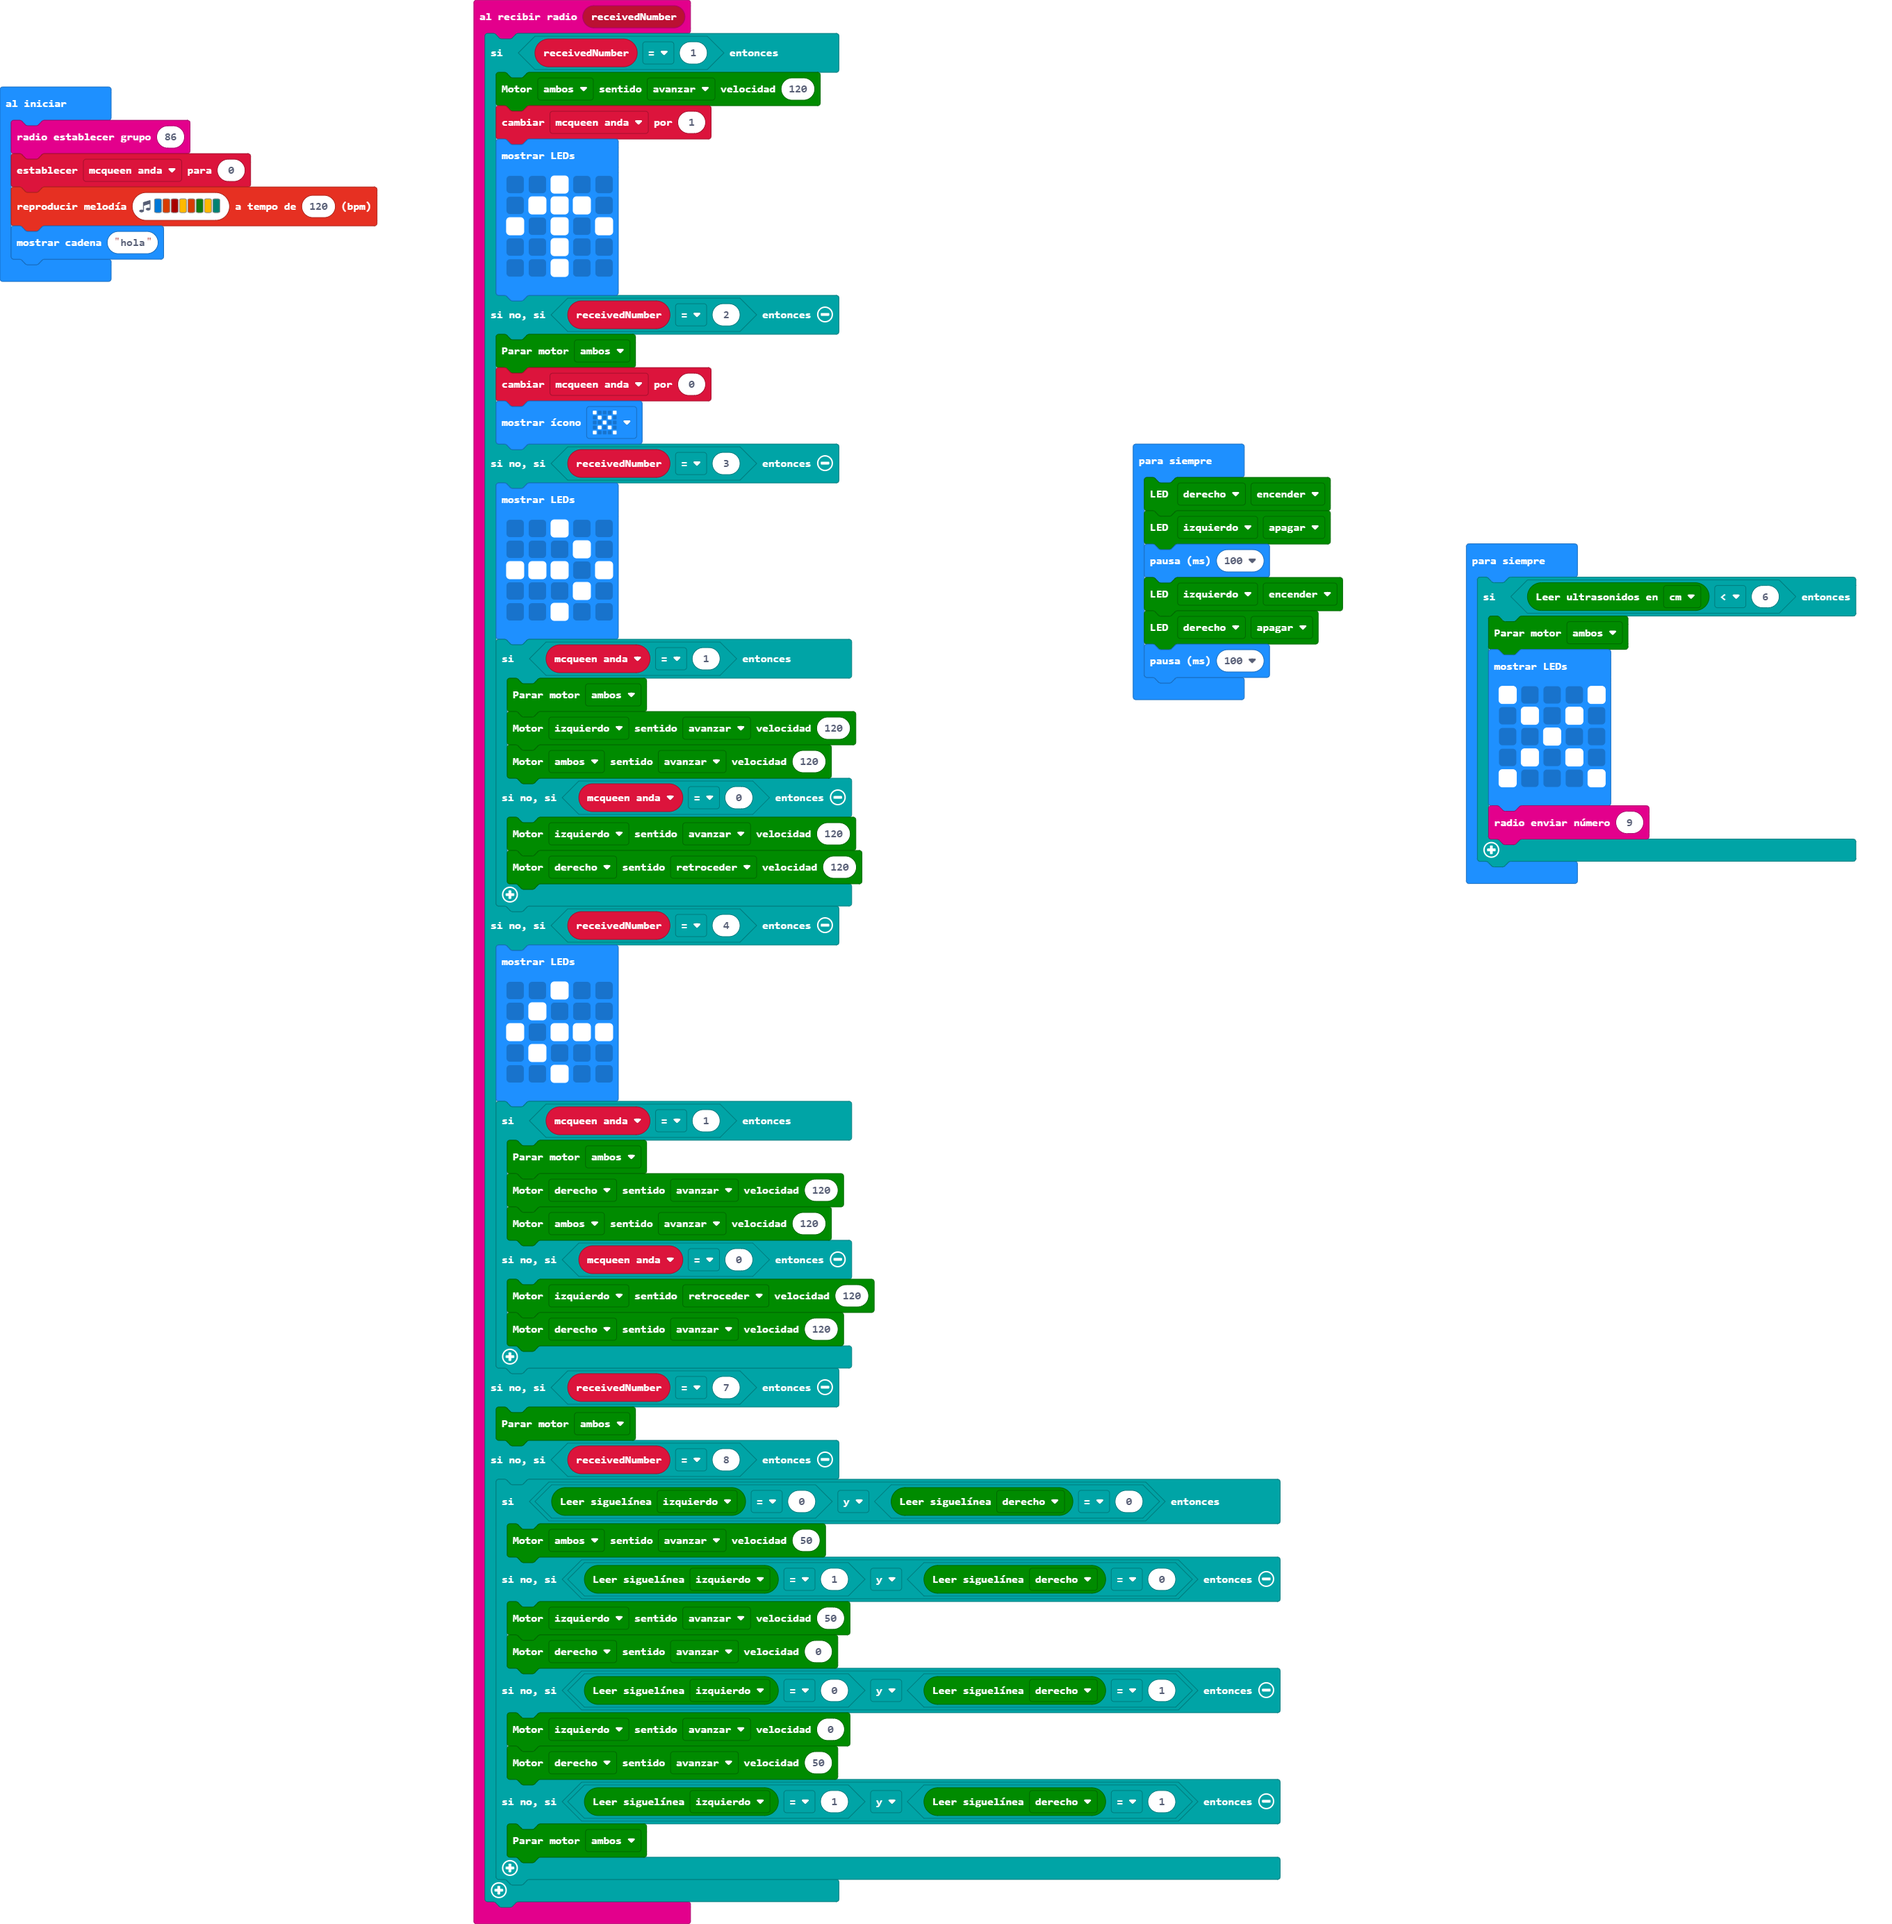
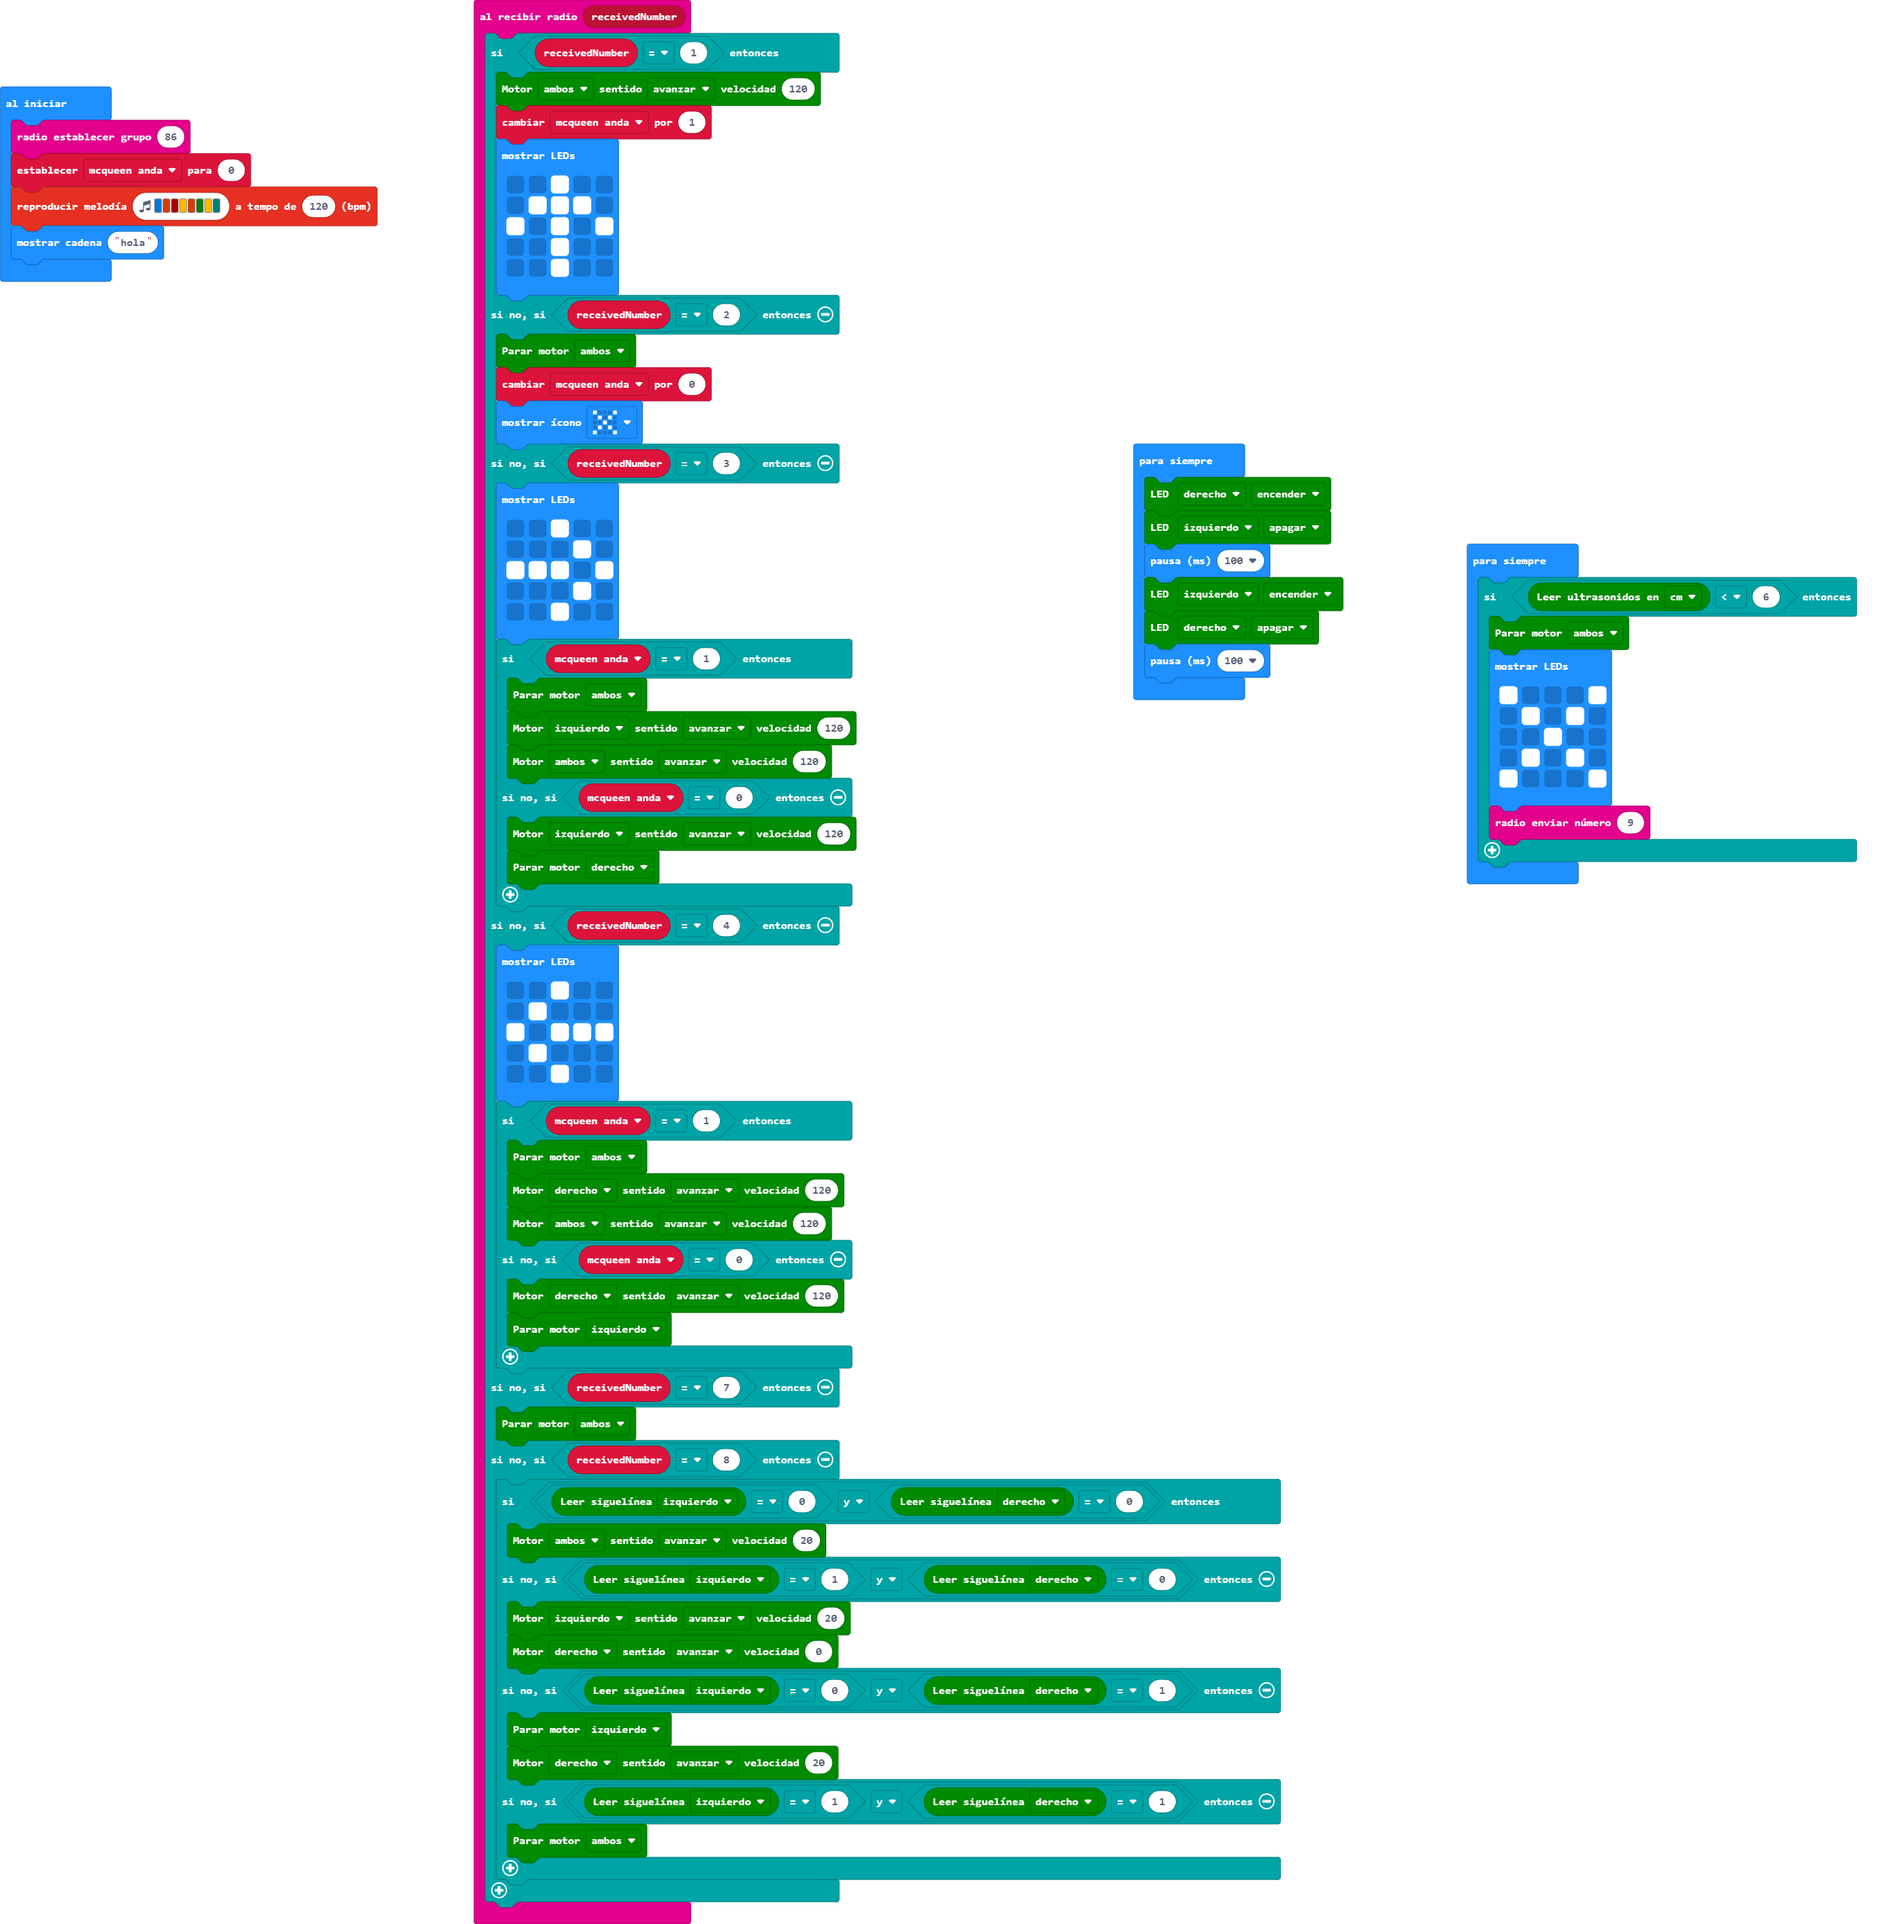
Actualizar main.blocks, main.ts

Changed region(s): [[0.3434, 0.6522, 0.4682, 0.7143], [0.3434, 0.8696, 0.4682, 0.9317], [0.3434, 0.4348, 0.4682, 0.4659]]

diff --git a/main.ts b/main.ts
@@ -27,7 +27,7 @@ radio.onReceivedNumber(function (receivedNumber) {
             maqueen.motorRun(maqueen.Motors.All, maqueen.Dir.CW, 120)
         } else if (mcqueen_anda == 0) {
             maqueen.motorRun(maqueen.Motors.M1, maqueen.Dir.CW, 120)
-            maqueen.motorRun(maqueen.Motors.M2, maqueen.Dir.CCW, 120)
+            maqueen.motorStop(maqueen.Motors.M2)
         }
     } else if (receivedNumber == 4) {
         basic.showLeds(`
@@ -42,20 +42,20 @@ radio.onReceivedNumber(function (receivedNumber) {
             maqueen.motorRun(maqueen.Motors.M2, maqueen.Dir.CW, 120)
             maqueen.motorRun(maqueen.Motors.All, maqueen.Dir.CW, 120)
         } else if (mcqueen_anda == 0) {
-            maqueen.motorRun(maqueen.Motors.M1, maqueen.Dir.CCW, 120)
             maqueen.motorRun(maqueen.Motors.M2, maqueen.Dir.CW, 120)
+            maqueen.motorStop(maqueen.Motors.M1)
         }
     } else if (receivedNumber == 7) {
         maqueen.motorStop(maqueen.Motors.All)
     } else if (receivedNumber == 8) {
         if (maqueen.readPatrol(maqueen.Patrol.PatrolLeft) == 0 && maqueen.readPatrol(maqueen.Patrol.PatrolRight) == 0) {
-            maqueen.motorRun(maqueen.Motors.All, maqueen.Dir.CW, 50)
+            maqueen.motorRun(maqueen.Motors.All, maqueen.Dir.CW, 20)
         } else if (maqueen.readPatrol(maqueen.Patrol.PatrolLeft) == 1 && maqueen.readPatrol(maqueen.Patrol.PatrolRight) == 0) {
-            maqueen.motorRun(maqueen.Motors.M1, maqueen.Dir.CW, 50)
+            maqueen.motorRun(maqueen.Motors.M1, maqueen.Dir.CW, 20)
             maqueen.motorRun(maqueen.Motors.M2, maqueen.Dir.CW, 0)
         } else if (maqueen.readPatrol(maqueen.Patrol.PatrolLeft) == 0 && maqueen.readPatrol(maqueen.Patrol.PatrolRight) == 1) {
-            maqueen.motorRun(maqueen.Motors.M1, maqueen.Dir.CW, 0)
-            maqueen.motorRun(maqueen.Motors.M2, maqueen.Dir.CW, 50)
+            maqueen.motorStop(maqueen.Motors.M1)
+            maqueen.motorRun(maqueen.Motors.M2, maqueen.Dir.CW, 20)
         } else if (maqueen.readPatrol(maqueen.Patrol.PatrolLeft) == 1 && maqueen.readPatrol(maqueen.Patrol.PatrolRight) == 1) {
             maqueen.motorStop(maqueen.Motors.All)
         }
